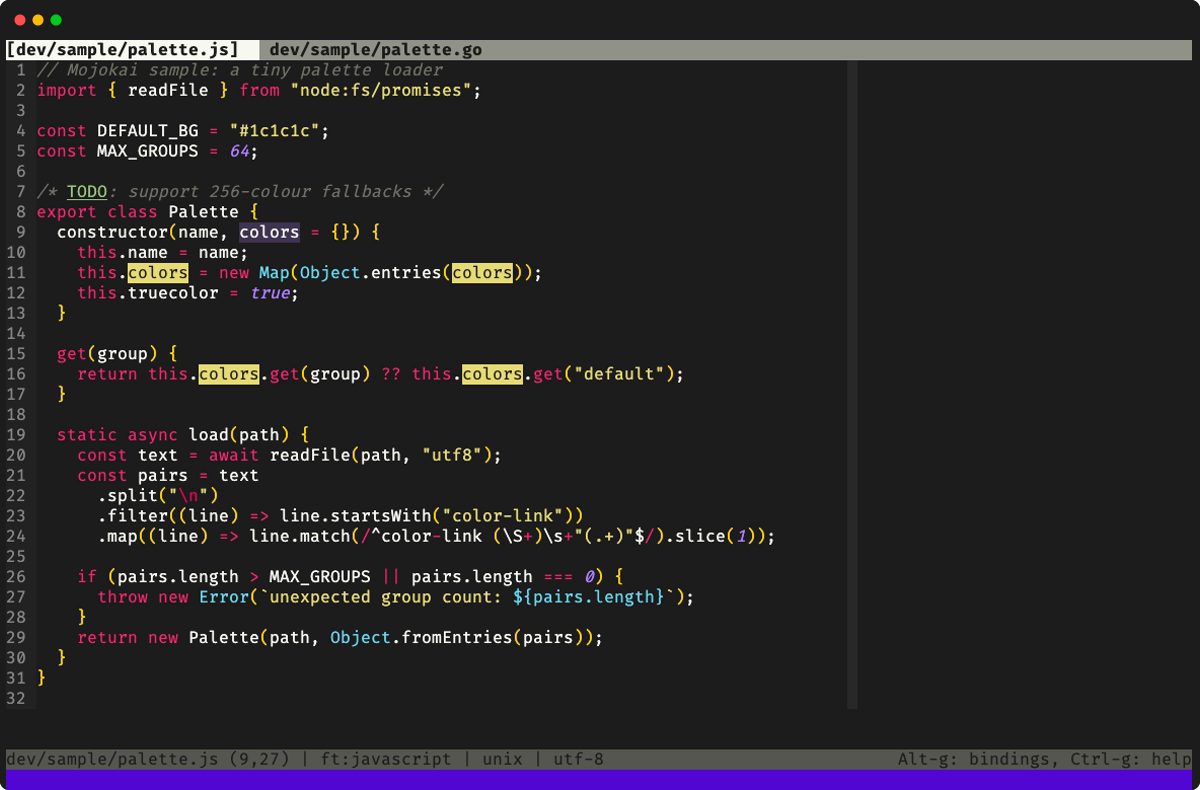
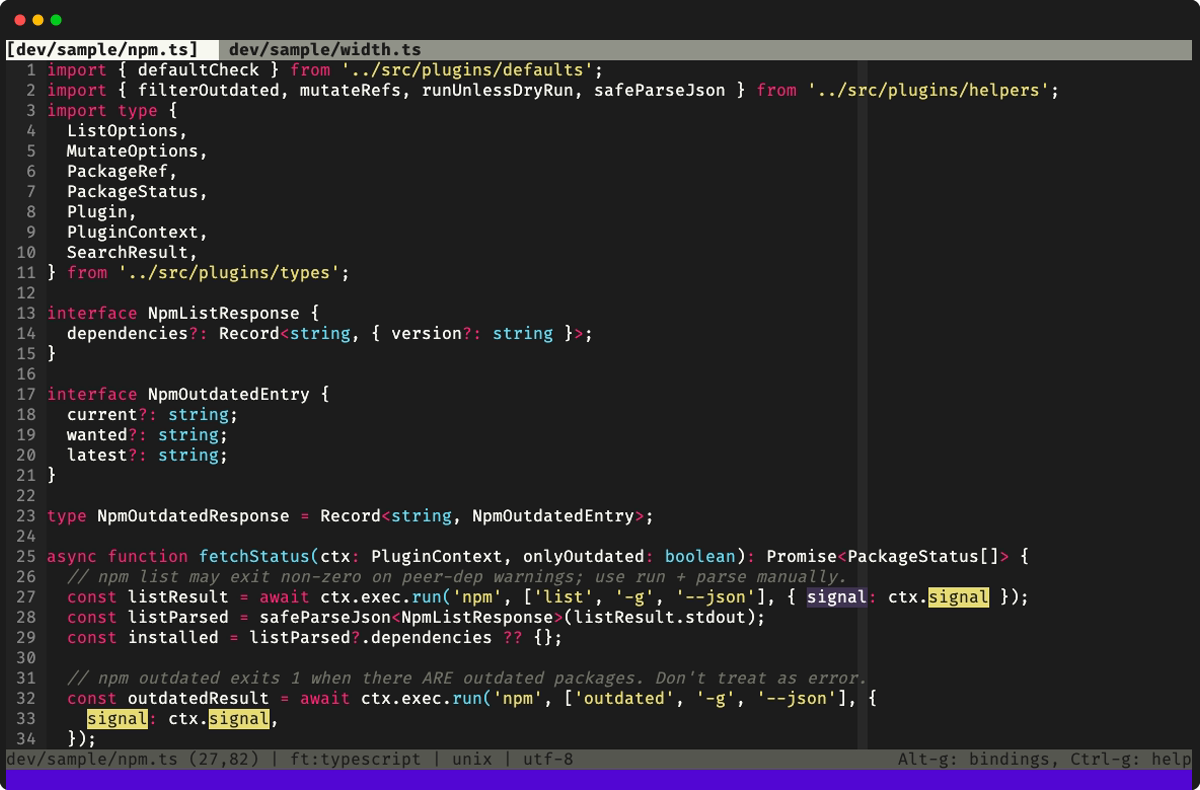
docs(screenshot): use TypeScript samples from macup
Replace the JavaScript and Go samples with two files copied unchanged from jv-k/macup, search for "signal", and re-render img/screenshot.png.

Changed region(s): [[0.0, 0.0304, 0.8633, 0.9722], [0.2775, 0.9418, 0.4933, 0.9722], [0.37, 0.5468, 0.4008, 0.6076]]

diff --git a/dev/sample/width.ts b/dev/sample/width.ts
@@ -1,0 +1,159 @@
+/**
+ * Visual cell width, ANSI-aware. One definition, shared by the layout/help
+ * code (re-exported from ui/log) and the status bar. These used to carry two
+ * different ANSI regexes that disagreed on what to strip: ui/log matched only
+ * SGR colour sequences, the status bar matched every CSI sequence. Measuring a
+ * styled string now strips the same set in both places.
+ *
+ * @module
+ */
+
+import { wrapAnsi } from 'fast-wrap-ansi';
+
+// Strip every CSI escape sequence — colour AND cursor movement — so a measured
+// string counts only the cells it actually occupies.
+// biome-ignore lint/suspicious/noControlCharactersInRegex: stripping ANSI on purpose
+const ANSI_CSI = /\x1b\[[0-9;?]*[A-Za-z]/g;
+
+/** Text without escape sequences, so width is measured on what is actually visible. */
+export function stripAnsi(s: string): string {
+  return s.replace(ANSI_CSI, '');
+}
+
+// Rough fullwidth ranges: CJK symbols/punct, CJK unified, fullwidth forms.
+// Not a full Unicode width table, just enough for the characters this project
+// renders (logos, CJK package names).
+function isFullwidth(cp: number): boolean {
+  return (
+    (cp >= 0x1100 && cp <= 0x115f) ||
+    (cp >= 0x2e80 && cp <= 0x303f) ||
+    (cp >= 0x3041 && cp <= 0x33ff) ||
+    (cp >= 0x3400 && cp <= 0x4dbf) ||
+    (cp >= 0x4e00 && cp <= 0x9fff) ||
+    (cp >= 0xa000 && cp <= 0xa4cf) ||
+    (cp >= 0xac00 && cp <= 0xd7a3) ||
+    (cp >= 0xf900 && cp <= 0xfaff) ||
+    (cp >= 0xfe30 && cp <= 0xfe4f) ||
+    (cp >= 0xff00 && cp <= 0xff60) ||
+    (cp >= 0xffe0 && cp <= 0xffe6)
+  );
+}
+
+/**
+ * Visual cell width of a string after stripping ANSI, counting fullwidth
+ * codepoints as 2 cells so logos and boxes align. Not a full Unicode width
+ * implementation, just enough for the characters this project uses.
+ */
+export function visualWidth(s: string): number {
+  let w = 0;
+  for (const ch of stripAnsi(s)) {
+    w += isFullwidth(ch.codePointAt(0) ?? 0) ? 2 : 1;
+  }
+  return w;
+}
+
+/**
+ * Truncate `s` so its visual width is at most `maxCells`, appending `…` (one
+ * cell) when it had to cut. Fullwidth codepoints count as 2 cells, like
+ * visualWidth, so the result never renders wider than `maxCells` columns.
+ * String.slice truncates by UTF-16 code units and would overshoot on fullwidth
+ * text, leaving the line wider than intended. Assumes plain text; callers strip
+ * ANSI first.
+ */
+export function clipToWidth(s: string, maxCells: number): string {
+  if (visualWidth(s) <= maxCells) return s;
+  if (maxCells <= 1) return '…';
+  const budget = maxCells - 1; // reserve one cell for the ellipsis
+  let width = 0;
+  let out = '';
+  for (const ch of s) {
+    const w = isFullwidth(ch.codePointAt(0) ?? 0) ? 2 : 1;
+    if (width + w > budget) break;
+    out += ch;
+    width += w;
+  }
+  return `${out}…`;
+}
+
+/**
+ * ANSI-aware clipToWidth: escape sequences pass through at zero cost, so a
+ * styled string clips at the same cell as its plain twin. A cut can land
+ * mid-span (after an SGR open, before its reset), so when the input carried
+ * ANSI the ellipsis is followed by a full reset to stop the open style
+ * bleeding into whatever renders next.
+ */
+export function clipAnsiToWidth(s: string, maxCells: number): string {
+  if (visualWidth(s) <= maxCells) return s;
+  const budget = Math.max(0, maxCells - 1); // reserve one cell for the ellipsis
+  let width = 0;
+  let out = '';
+  let sawAnsi = false;
+  let i = 0;
+  while (i < s.length) {
+    if (s[i] === '\x1b' && s[i + 1] === '[') {
+      let j = i + 2;
+      while (j < s.length && !/[A-Za-z]/.test(s[j] as string)) j++;
+      out += s.slice(i, j + 1);
+      sawAnsi = true;
+      i = j + 1;
+      continue;
+    }
+    const cp = s.codePointAt(i) ?? 0;
+    const ch = String.fromCodePoint(cp);
+    const w = isFullwidth(cp) ? 2 : 1;
+    if (width + w > budget) break;
+    out += ch;
+    width += w;
+    i += ch.length;
+  }
+  return `${out}…${sawAnsi ? '\x1b[0m' : ''}`;
+}
+
+// Any SGR opens a string starts with, then the plain spaces after them.
+// biome-ignore lint/suspicious/noControlCharactersInRegex: matching ANSI on purpose
+const LEADING_SPACES = /^((?:\x1b\[[0-9;]*m)*)( *)/;
+
+/**
+ * Split `s` into the SGR opens it starts with, the plain spaces after them,
+ * and the rest, so a caller can measure or move a body's leading spaces
+ * without disturbing the span that colours them.
+ */
+export function splitLeadingSpaces(s: string): { opens: string; lead: string; rest: string } {
+  const [, opens = '', lead = ''] = LEADING_SPACES.exec(s) ?? [];
+  return { opens, lead, rest: s.slice(opens.length + lead.length) };
+}
+
+/**
+ * Wrap `text` into rows of at most `maxCells`, ANSI-aware: escape sequences
+ * cost nothing, an SGR span open at a row end is closed there and reopened on
+ * the next row, and fullwidth codepoints count two cells. Breaks fall at
+ * spaces; `hard` also splits a single word wider than `maxCells` by cells.
+ * A break that lands on a space consumes it, so no continuation row opens
+ * one cell off its column, and a row that was only that space (between two
+ * words that each overflow the width) goes with it. Every other character
+ * survives, leading spaces and internal runs included, so the rows joined
+ * without a separator are `text` less those breaks. Embedded newlines are
+ * paragraph breaks and each paragraph wraps on its own. The plain-text
+ * sibling is `log.wrapText`, which measures by `length` and is only safe on
+ * text with no escapes (ADR 0060).
+ */
+export function wrapAnsiToWidth(
+  text: string,
+  maxCells: number,
+  opts: { hard?: boolean } = {},
+): string[] {
+  const options = { hard: opts.hard ?? false, trim: false, wordWrap: true };
+  return text.split('\n').flatMap((paragraph) => {
+    const [first = '', ...rest] = wrapAnsi(paragraph, maxCells, options).split('\n');
+    return [first, ...rest.map(consumeSeparator).filter((row) => stripAnsi(row) !== '')];
+  });
+}
+
+// The one separator space a break can land on, at the start of a
+// continuation row, past the span the wrapper reopened there. When the row
+// before was already full and the next word overflows too, the separator is
+// the whole row, so consuming it leaves the empty row the filter above drops.
+function consumeSeparator(row: string): string {
+  const { opens, lead, rest } = splitLeadingSpaces(row);
+  return lead ? `${opens}${lead.slice(1)}${rest}` : row;
+}

diff --git a/dev/sample/npm.ts b/dev/sample/npm.ts
@@ -1,0 +1,116 @@
+import { defaultCheck } from '../src/plugins/defaults';
+import { filterOutdated, mutateRefs, runUnlessDryRun, safeParseJson } from '../src/plugins/helpers';
+import type {
+  ListOptions,
+  MutateOptions,
+  PackageRef,
+  PackageStatus,
+  Plugin,
+  PluginContext,
+  SearchResult,
+} from '../src/plugins/types';
+
+interface NpmListResponse {
+  dependencies?: Record<string, { version?: string }>;
+}
+
+interface NpmOutdatedEntry {
+  current?: string;
+  wanted?: string;
+  latest?: string;
+}
+
+type NpmOutdatedResponse = Record<string, NpmOutdatedEntry>;
+
+async function fetchStatus(ctx: PluginContext, onlyOutdated: boolean): Promise<PackageStatus[]> {
+  // npm list may exit non-zero on peer-dep warnings; use run + parse manually.
+  const listResult = await ctx.exec.run('npm', ['list', '-g', '--json'], { signal: ctx.signal });
+  const listParsed = safeParseJson<NpmListResponse>(listResult.stdout);
+  const installed = listParsed?.dependencies ?? {};
+
+  // npm outdated exits 1 when there ARE outdated packages. Don't treat as error.
+  const outdatedResult = await ctx.exec.run('npm', ['outdated', '-g', '--json'], {
+    signal: ctx.signal,
+  });
+  const outdatedParsed = safeParseJson<NpmOutdatedResponse>(outdatedResult.stdout) ?? {};
+
+  const result: PackageStatus[] = Object.entries(installed).map(([name, meta]) => {
+    const outdated = outdatedParsed[name];
+    const status: PackageStatus = {
+      ref: { kind: 'npm', name },
+      installed: true,
+      installedVersion: meta.version,
+      updateStatus: outdated !== undefined ? 'outdated' : 'current',
+    };
+    if (outdated?.latest !== undefined) {
+      status.latestVersion = outdated.latest;
+    }
+    return status;
+  });
+
+  return filterOutdated(result, onlyOutdated);
+}
+
+const npm: Plugin = {
+  manifest: {
+    id: 'npm',
+    displayName: 'npm (global)',
+    category: 'Node.js',
+    supportedOS: ['darwin'],
+    requires: ['npm'],
+    configKeys: ['npm'],
+    capabilities: {
+      list: true,
+      install: true,
+      update: true,
+      track: true,
+      untrack: true,
+      outdated: true,
+    },
+  },
+
+  check: defaultCheck('npm', ['npm']),
+
+  async list(ctx: PluginContext, opts: ListOptions): Promise<PackageStatus[]> {
+    return fetchStatus(ctx, opts.onlyOutdated ?? false);
+  },
+
+  async install(
+    ctx: PluginContext,
+    refs: readonly PackageRef[],
+    opts: MutateOptions,
+  ): Promise<void> {
+    await mutateRefs(ctx, refs, opts, (ref) => ['npm', ['install', '-g', ref.name]]);
+  },
+
+  async update(
+    ctx: PluginContext,
+    refs: readonly PackageRef[],
+    opts: MutateOptions,
+  ): Promise<void> {
+    await mutateRefs(ctx, refs, opts, (ref) => ['npm', ['update', '-g', ref.name]]);
+  },
+
+  async search(ctx: PluginContext, query: string): Promise<SearchResult[]> {
+    const { stdout } = await ctx.exec.run('npm', ['search', '--json', query], {
+      signal: ctx.signal,
+      kind: 'query',
+    });
+    const parsed = safeParseJson<Array<{ name?: string; description?: string }>>(stdout);
+    if (!Array.isArray(parsed)) return [];
+    const results: SearchResult[] = [];
+    for (const hit of parsed) {
+      if (!hit || typeof hit.name !== 'string') continue;
+      results.push(
+        hit.description ? { name: hit.name, description: hit.description } : { name: hit.name },
+      );
+    }
+    return results;
+  },
+
+  async healthCheck(ctx: PluginContext, opts: MutateOptions): Promise<void> {
+    await runUnlessDryRun(ctx, opts, 'npm', ['doctor']);
+  },
+};
+
+export default npm;

diff --git a/README.md b/README.md
@@ -2,7 +2,7 @@
 
 Mojokai is a truecolor colorscheme for the [micro](https://micro-editor.github.io/) text editor. It uses Monokai colors on a dark `#1c1c1c` background.
 
-![micro with the Mojokai colorscheme. Two tabs are open. A JavaScript file shows comments, strings, keywords, numbers, and search matches in yellow.](img/screenshot.png)
+![micro with the Mojokai colorscheme. Two tabs are open. A TypeScript file shows comments, strings, keywords, types, and search matches in yellow.](img/screenshot.png)
 
 ## Requirements
 
